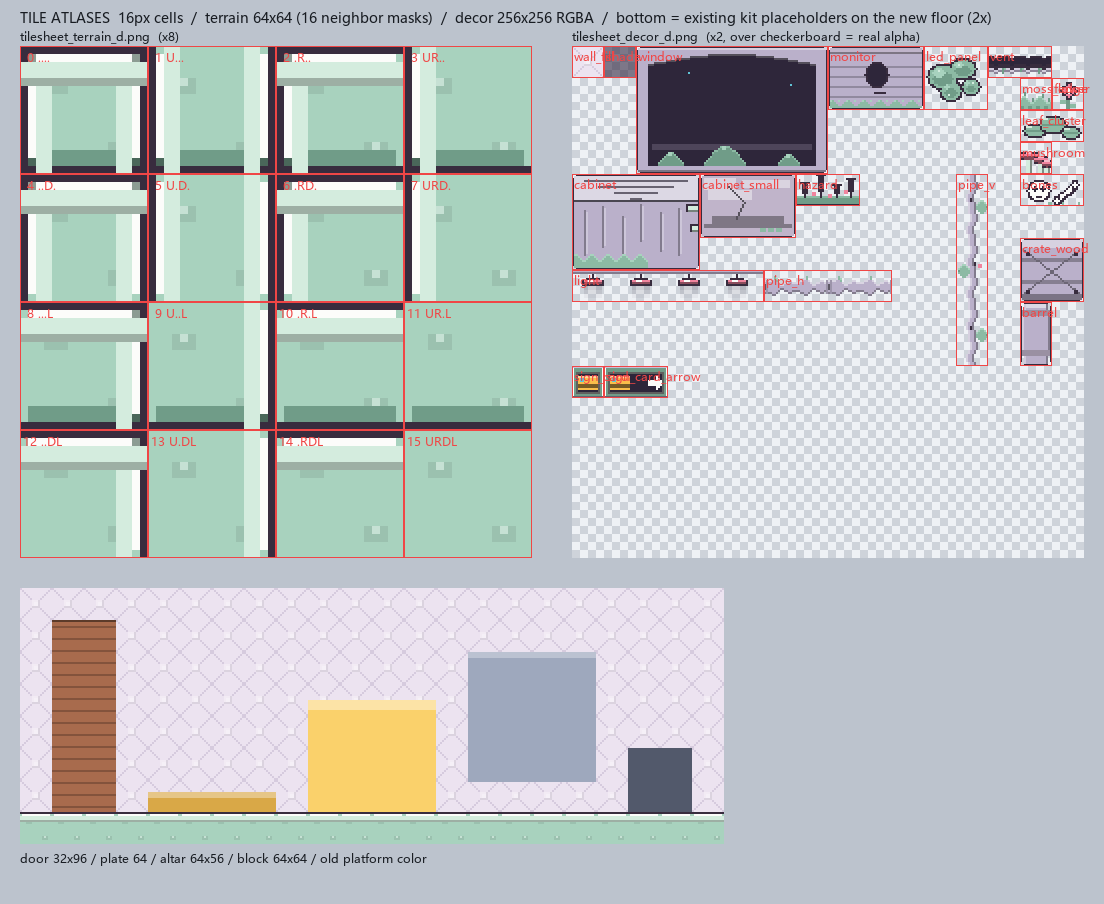
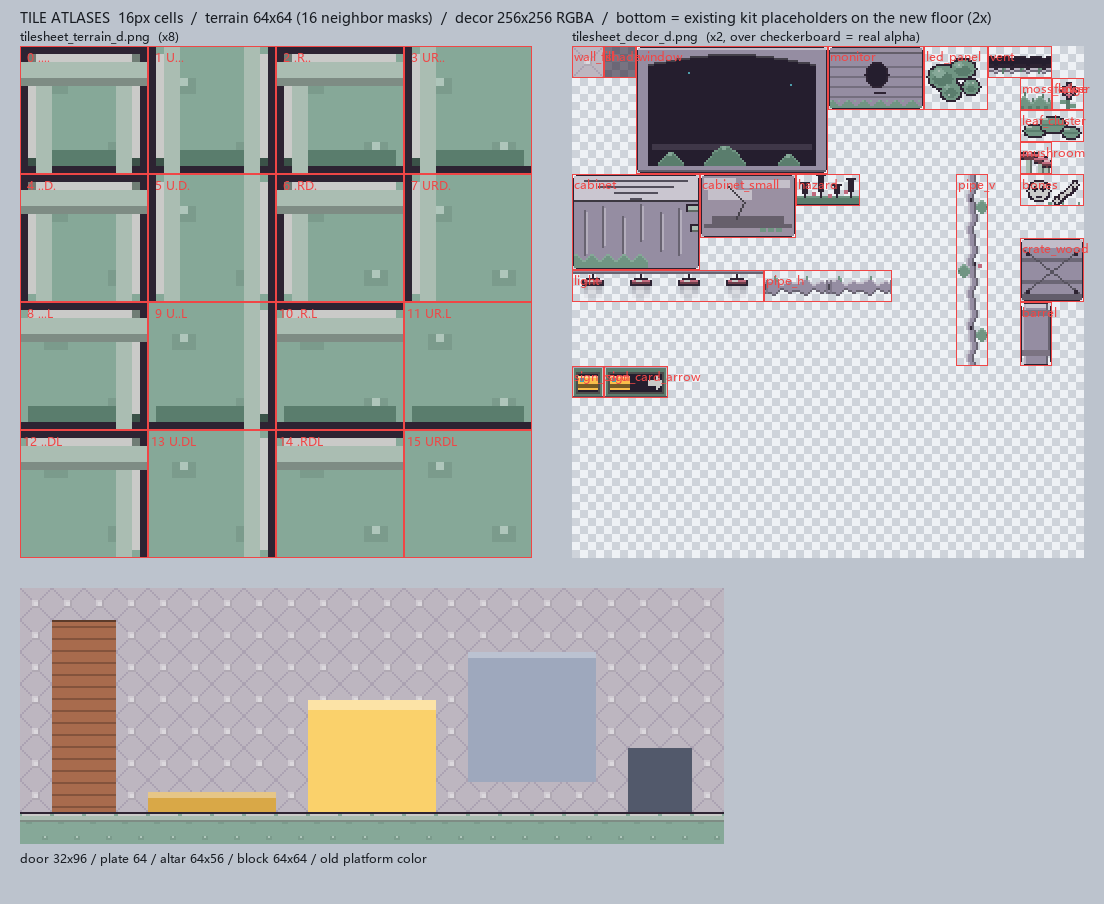
[tune] D72 第二关（d 亮底）整条降亮到 ×0.80：冻结那层 CRT 不再把画面削成纯白
症状是"移动加上 shader 更亮"，量出来是削顶不是变亮：freeze_crt 的 linear_fac 1.3 是等比乘再夹 255，
同一道算式 g 只有 7.9% 像素撞天花板、d 有 45.7%（墙 236,227,240 → 255,255,255，色相与细节一起没）。
用户否掉"每关一个冻结增益旋钮"，理由是他之后每一关都基于同一个场景拓展、没有选关 —— 按关分叉的修法
在这个结构里没有住的地方。落的是 STYLES["d"] 那 15 个颜色键（墙 79.1→48.1、均值 205.5→165.3、削顶 45.7%→3.0%）。

pickup 是唯一不跟着缩的键：它跟 key_card.png 那张实物零件同色才说得出「这张开这扇」，缩它等于让
告示牌指一张不存在的卡（D70 第 4 条）。选型图 tools/gen_d_dim_preview.py 走两条同源函数
（房间 = 落盘画师 render_room，冻结 = 出货 fragment 的离线复现 crt），五行两格，他看图挑的 B 档。

要说清的一条代价：降亮没有治好"构件在 d 墙上读不出来"，方向甚至相反（同一批真色只换墙：
琥珀 1.34→1.18、青 1.62→1.02、LED 底座 13.51→8.53）—— 墙退到构件亮度中间，两侧距离一起变小。
那笔账仍欠在 D67 裁定③「重开构件色」。

没动 shader，也没跑 build_tileset.gd（图集矩形与源索引不变 ⇒ 手维护的 level_02_tileset.tres 自己跟着变暗）。
g 侧可核零变化；四条守门 677/0、verify failures=1（仍是 level1 的 Objects 位移）、kit 0、sprite 0。

diff --git a/tools/gen_d_dim_preview.py b/tools/gen_d_dim_preview.py
@@ -1,0 +1,150 @@
+#!/usr/bin/env python
+# -*- coding: utf-8 -*-
+"""
+第二关（d 亮底）太亮 / 冻结那一拍更亮 —— 降亮档选型图。
+
+两条同源口径（D58 立的规矩：选型图必须由落盘那个渲染函数直接生成）：
+  房间 = tools/gen_tiles.py 的 render_room()，换的只是 STYLES["d"] 调色板里的数值；
+  冻结那一拍 = tools/gen_freeze_filter_preview.py 的 crt()，就是出货那段 fragment 的离线复现
+              （linear_fac 1.3 / scan_fac 0.10 / 色散开），所以图里的"更亮"和游戏里是同一道算式。
+
+每档出两格：左 = 静止（世界流动），右 = 冻结（按住方向键那一拍）。
+控制台读数值用 ASCII（cp936 会把中文列名糊掉），图上的标注才用中文。
+
+用法：  py tools/gen_d_dim_preview.py
+产物：  assets/tiles/preview_d_dim.png
+"""
+import os
+import sys
+
+from PIL import Image, ImageDraw
+
+sys.path.insert(0, os.path.dirname(os.path.abspath(__file__)))
+import gen_tiles as G                     # 落盘的画师
+import gen_freeze_filter_preview as F     # 出货 shader 的同一条算式
+
+ROOT = os.path.dirname(os.path.dirname(os.path.abspath(__file__)))
+OUT = os.path.join(ROOT, "assets", "tiles", "preview_d_dim.png")
+
+# 增益 1.3 的削顶线：任何通道 >= 255/1.3 = 196.2 都会撞天花板。
+CLIP_LINE = 255 / 1.3
+
+FACTORS = (
+    (1.00, "现况 d"),
+    (0.90, "A ×0.90"),
+    (0.80, "B ×0.80"),
+    (0.72, "C ×0.72"),
+    (0.64, "D ×0.64"),
+)
+
+CELL_W, CELL_H = 640, 360
+LABEL_W = 470
+ROW_H = CELL_H + 96
+
+
+PIN_KEYS = ("pickup",)     # 可拾取琥珀不跟着本套缩：`key_card.png` 是照落盘那套烤的实物零件，
+                           # 告示牌上那只卡全靠与它同色才说得出「这张开这扇」（D70 第 4 条）。
+
+
+def scale_palette(p, f):
+    """整条调色板按同一个系数缩（含 alpha 的那些只缩 RGB）。
+    同系数 = 每一对颜色之间的相对关系一起缩，所以不会在缩的过程中改坏对比结构。
+    PIN_KEYS 里的那几个例外 —— 它们跟着别的实例走，不是本套的风格量。"""
+    out = {}
+    for k, v in p.items():
+        if k in PIN_KEYS or not isinstance(v, tuple) or len(v) < 3 \
+                or not all(isinstance(x, (int, float)) for x in v):
+            out[k] = v
+            continue
+        rgb = tuple(G._c(x * f) for x in v[:3])
+        out[k] = rgb if len(v) == 3 else rgb + (v[3],)
+    return out
+
+
+def room_pair(p):
+    """同一间房的静止帧与冻结帧，都回到窗口的 1280x720（NEAREST 放大，别糊晶格）。"""
+    img = G.render_room(p, ROOT).convert("RGB").resize((F.W, F.H), Image.NEAREST)
+    return img, F.crt(img, linear_fac=1.3, scan_fac=0.10)
+
+
+def readings(img):
+    n = 0
+    s = 0.0
+    clip = 0
+    for y in range(0, img.height, 3):
+        for x in range(0, img.width, 3):
+            r, g, b = img.getpixel((x, y))[:3]
+            s += 0.2126 * r + 0.7152 * g + 0.0722 * b
+            if r >= 255 or g >= 255 or b >= 255:
+                clip += 1
+            n += 1
+    return s / n, 100.0 * clip / n
+
+
+def palette_ceiling(p):
+    return max(max(v[:3]) for k, v in p.items() if k not in PIN_KEYS
+               and isinstance(v, tuple) and len(v) >= 3 and all(isinstance(x, (int, float)) for x in v))
+
+
+def main():
+    base = G.STYLES["d"]
+    body = (10, 12, 12)                      # 主角那团黑，与 contrast_report 同一个抄法
+    rows = []
+    print("factor  label     mean_stat mean_freeze  clip_freeze%  ceiling  keys_over_clip  "
+          "wall  p/wall o/wall metal/wall glass/wall lip/wall")
+    for f, label in FACTORS:
+        p = scale_palette(base, f)
+        stat, frozen = room_pair(p)
+        ms, _ = readings(stat)
+        mf, cf = readings(frozen)
+        over = sum(1 for k, v in p.items() if k not in PIN_KEYS
+                   and isinstance(v, tuple) and len(v) >= 3
+                   and all(isinstance(x, (int, float)) for x in v) and max(v[:3]) >= CLIP_LINE)
+        r = dict(ms=ms, mf=mf, cf=cf, ceil=palette_ceiling(p), over=over,
+                 wall=G._rlum(p["bg"]) * 100, pwall=G._cr(body, p["bg"]),
+                 owall=G._cr(p["edge"], p["bg"]), metal=G._cr(p["metal"], p["bg"]),
+                 glass=G._cr(p["glass"], p["bg"]), lip=G._cr(p["lip"], p["bg"]))
+        rows.append((f, label, stat, frozen, r))
+        print("%5.2f  %-9s %8.1f %10.1f %13.1f %9d %14d  %6.1f %6.2f %6.2f %10.2f %9.2f %8.2f" % (
+            f, label, r["ms"], r["mf"], r["cf"], r["ceil"], r["over"],
+            r["wall"], r["pwall"], r["owall"], r["metal"], r["glass"], r["lip"]))
+
+    W = LABEL_W + 2 * CELL_W + 40
+    H = ROW_H * len(rows) + 120
+    sheet = Image.new("RGB", (W, H), (12, 12, 16))
+    d = ImageDraw.Draw(sheet)
+    title = G._font(30)
+    f1 = G._font(24)
+    f2 = G._font(18)
+    d.text((20, 24), "第二关（d 亮底）降亮档选型 · 右格 = 冻结那一拍，用出货同一条算式（linear_fac 1.3 / scan 0.10 / 色散）",
+           font=title, fill=(232, 236, 248))
+    d.text((20, 62), "削顶线 = 255/1.3 = 196：调色板里任何通道过线，那一格在冻结时都会糊成纯白（失去色相与细节）· 全部读数由这两条同源函数当场量出",
+           font=f2, fill=(178, 186, 206))
+
+    y0 = 120
+    for i, (f, label, stat, frozen, r) in enumerate(rows):
+        d.rectangle([0, y0 - 8, W - 1, y0 + ROW_H - 10], outline=(52, 58, 76))
+        d.text((20, y0 + 6), label, font=f1, fill=(236, 240, 252))
+        d.text((20, y0 + 38), "静止均值 %.1f → 冻结 %.1f（+%.1f）" % (r["ms"], r["mf"], r["mf"] - r["ms"]),
+               font=f2, fill=(186, 196, 220))
+        d.text((20, y0 + 62), "冻结削顶 %.1f%% · 最高通道 %d · 过削顶线的键 %d 个"
+               % (r["cf"], r["ceil"], r["over"]), font=f2, fill=(150, 196, 236))
+        d.text((20, y0 + 84), "轮廓/墙 %.2f · 金属/墙 %.2f · 玻璃/墙 %.2f · 亮边/墙 %.2f · 主角/墙 %.2f"
+               % (r["owall"], r["metal"], r["glass"], r["lip"], r["pwall"]),
+               font=f2, fill=(228, 196, 120))
+        d.text((20, y0 + 106), "墙相对亮度 %.1f（g 那套是 9.1）" % r["wall"], font=f2, fill=(150, 214, 176))
+        for j, img in enumerate((stat, frozen)):
+            cell = img.resize((CELL_W, CELL_H), Image.BOX)
+            x = LABEL_W + 10 + j * (CELL_W + 20)
+            sheet.paste(cell, (x, y0))
+            d.rectangle([x, y0, x + CELL_W, y0 + CELL_H], outline=(70, 78, 100))
+            d.text((x + 10, y0 + 6), "静止（世界流动）" if j == 0 else "冻结（按住方向键那一拍）",
+                   font=f2, fill=(240, 244, 255))
+        y0 += ROW_H
+
+    sheet.save(OUT)
+    print("\nsaved", OUT, sheet.size)
+
+
+if __name__ == "__main__":
+    main()

diff --git a/tools/gen_tiles.py b/tools/gen_tiles.py
@@ -112,13 +112,17 @@ STYLES = {
         motif_bg="quilt", motif_terrain="dot", soft=True,
         # decor_set / pickup 是 D70 那两条：装饰从「实验室词汇」换成「树丛词汇」
         # （几何与占格一格不动，只换 painters 表），并把可拾取琥珀从 accent2 里单拎出来跟着卡走。
+        # D72 整条 ×0.80（他挑的 B 档）：这套原样均值 205，冻结那层 CRT 的 linear_fac 1.3 一乘，
+        # 45.7% 的像素至少一个通道撞天花板 —— 亮底不是暗底取反，它没有余量给"加辉"。
+        # 唯一不动的是 pickup：它跟着 key_card.png 那张实物零件走（同色才说得出「这张开这扇」），
+        # 换风格不能把语义一起换掉（D70 第 4 条同一个道理）。
         decor_set="grove", pickup=PICKUP_AMBER,
-        bg=(236, 227, 240), bg2=(214, 203, 222), bg3=(192, 180, 202),
-        surface=(168, 210, 190), grout=(140, 186, 164), deep=(112, 156, 136),
-        lip=(252, 252, 250), lip_shade=(212, 236, 222), edge=(56, 44, 62),
-        accent=(96, 196, 214), accent2=(240, 132, 158),
-        glass=(210, 238, 244), metal=(186, 176, 202), screen=(46, 38, 58),
-        pit_shade=(46, 34, 60, 150),
+        bg=(189, 182, 192), bg2=(171, 162, 178), bg3=(154, 144, 162),
+        surface=(134, 168, 152), grout=(112, 149, 131), deep=(90, 125, 109),
+        lip=(202, 202, 200), lip_shade=(170, 189, 178), edge=(45, 35, 50),
+        accent=(77, 157, 171), accent2=(192, 106, 126),
+        glass=(168, 190, 195), metal=(149, 141, 162), screen=(37, 30, 46),
+        pit_shade=(37, 27, 48, 150),
     ),
     "e": dict(
         label="E  TOY PLAYROOM  (round subway wall + honey wood floor, brown outline)",

diff --git a/docs/context_brief.md b/docs/context_brief.md
@@ -20,8 +20,8 @@
 ## 2. 工程布局
 
 - 根目录 `D:\Godot\Ups\upstream`。**是 git 仓库**（分支 `main`，**没有配置远端**）——本地提交能回滚，但没有第二份副本，删除/覆盖仍不可恢复，操作要保守。
-- `scenes/actors/player/` 玩家（**D68 起身上多一根 `time_anchor.gd` 的 `TimeAnchor`**，代码建的子节点、不进 `player.tscn`）；`scenes/objects/` 下是门（door）、按钮（button_plate）、钟摆（pendulum）、移动方块（moving_block，D68 起进 `anchorable` 组）、祭坛（ability_altar）、感应区（sensor_zone）、尖刺（spikes）、电棒（electric_bar）、能量卡（key_pickup）、刷卡门（key_door）、存档点（checkpoint）、残影踏板（afterimage_emitter）、活塞踏板（piston_block）、坠落带（fall_zone）、彩蛋收集物（collectible）、世界钟（clock，纯装饰、零契约）、**相位面板（phase_panel）与相位穿梭块（phase_shuttle，D69 起进 `anchorable` 组）**；`components/` 是跨构件小基类（time_receiver / hazard_base / tile_draw / **clock_device（D69：相位器件的共同地基）**）；`autoloads/time_manager.gd` 时间系统；`tools/` 生成脚本与四个回归守门；`assets/player/slime/` 程序生成的像素帧；`assets/tiles/` 瓦片，**D67 起有两套落盘配色**：`lab_tileset.tres`（`g` 暗底夜光，现有关与模板都指它）与 `lab_tileset_d.tres`（`d` 糖果贴纸，给换美术风格的新关，三层 `tile_set` 一起指过去）；**外加第三份 `level_02_tileset.tres`（2026-10-27 起，第二关专用：手维护、不属于瓦片管线、`build_tileset.gd` 不认它 —— 四个源 = g 的地形与装饰 + d 的两张图集，`sources/2..3` 的物理层由关卡作者自己画；代价是没有任何守门替它验碰撞，画漏一格 = 砖没碰撞而无头照样全绿）**。**地形那 16 格两套逐格同源；装饰两套不再相同（D70）**：`d` 换成了「树丛」词汇表（`decor_set="grove"`，同名换剪影十件 + 多七件，占格与条目名一格没动），所以 **g→d 整层复制合法、d→g 会掉那七块皮**，`tileset_selftest` 钉着这条方向。
-- 文档：`docs/architecture_chapter_01.md` 记着 **D1~D71 全部设计决策**（开工前先读，尤其是末尾的补录；D33 是留空号，下一个空号 D72）；`docs/level_authoring_guide.md` 是摆图手册；`docs/m2_level_01_layout.md` 是引导关白模说明。
+- `scenes/actors/player/` 玩家（**D68 起身上多一根 `time_anchor.gd` 的 `TimeAnchor`**，代码建的子节点、不进 `player.tscn`）；`scenes/objects/` 下是门（door）、按钮（button_plate）、钟摆（pendulum）、移动方块（moving_block，D68 起进 `anchorable` 组）、祭坛（ability_altar）、感应区（sensor_zone）、尖刺（spikes）、电棒（electric_bar）、能量卡（key_pickup）、刷卡门（key_door）、存档点（checkpoint）、残影踏板（afterimage_emitter）、活塞踏板（piston_block）、坠落带（fall_zone）、彩蛋收集物（collectible）、世界钟（clock，纯装饰、零契约）、**相位面板（phase_panel）与相位穿梭块（phase_shuttle，D69 起进 `anchorable` 组）**；`components/` 是跨构件小基类（time_receiver / hazard_base / tile_draw / **clock_device（D69：相位器件的共同地基）**）；`autoloads/time_manager.gd` 时间系统；`tools/` 生成脚本与四个回归守门；`assets/player/slime/` 程序生成的像素帧；`assets/tiles/` 瓦片，**D67 起有两套落盘配色**：`lab_tileset.tres`（`g` 暗底夜光，现有关与模板都指它）与 `lab_tileset_d.tres`（`d` 糖果贴纸，给换美术风格的新关，三层 `tile_set` 一起指过去）；**外加第三份 `level_02_tileset.tres`（2026-10-27 起，第二关专用：手维护、不属于瓦片管线、`build_tileset.gd` 不认它 —— 四个源 = g 的地形与装饰 + d 的两张图集，`sources/2..3` 的物理层由关卡作者自己画；代价是没有任何守门替它验碰撞，画漏一格 = 砖没碰撞而无头照样全绿）**。**地形那 16 格两套逐格同源；装饰两套不再相同（D70）；`d` 那一套自 D72 起整条 ×0.80（亮底没有余量给冻结那层 CRT 的 1.3 倍增益，只有 `pickup` 不跟着缩）**：`d` 换成了「树丛」词汇表（`decor_set="grove"`，同名换剪影十件 + 多七件，占格与条目名一格没动），所以 **g→d 整层复制合法、d→g 会掉那七块皮**，`tileset_selftest` 钉着这条方向。
+- 文档：`docs/architecture_chapter_01.md` 记着 **D1~D72 全部设计决策**（开工前先读，尤其是末尾的补录；D33 是留空号，下一个空号 D72）；`docs/level_authoring_guide.md` 是摆图手册；`docs/m2_level_01_layout.md` 是引导关白模说明。
 
 ## 3. 时间系统怎么实现
 
@@ -92,6 +92,7 @@
 - **D69 相位器件：平时受世界钟、被锚吸住时反过来跟手（2026-10-26/27，已实装、四条守门绿）**：用户提「接下来我们需要一些可以被附着并改变实际状态的物体」。**我的第一版被当场否掉**：那版把新物件写成"只有被锚着时才动"（给 `TimeReceiver` 加一道"有没有被接管"的休眠闸），用户原话「这些物体在平时也应该受到世界钟的调控，只不过在被锚点附着时会反过来调控，而不是完全独立于其他物体」——**那道休眠闸一行都没写**，整条设计改成"默认世界钟、被锚时换源"，正好复用 D68 已经铺好的路（锚只换 `TimeReceiver` 的时间源，器件不知道自己被谁喂时）。**四件东西**：`components/clock_device.gd`（周期器件共同地基，`_clock` 只按 `get_physics_delta()` 攒、`cycle_on() = fposmod(_clock+phase, period) < period*duty`，`period<=0` 恒开）+ `scenes/objects/phase_panel/`（中间 32×16 底座**永远实**、两侧 `panel_size` 桥面按相位现形）+ `scenes/objects/phase_shuttle/`（48×16 实心踏板在 A/B 两个停靠点之间**整块瞬移**，B = A + `offset`，不载人）+ 两件都进 `anchorable` 族、层 4 / mask 0、挂 `TimeReceiver`。**六行行为矩阵**（这条决定的核心）：未吸附+流动→自己开合；未吸附+冻结→停住；吸附+人站着（世界流着）→停住；吸附+人按着方向（世界冻着）→照着走；移动中 E 回收→目标当帧回世界钟（=0 delta）→停住；站着回收→回世界钟继续走、**相位不回到 0**。**三条裁定**：D1 底座常实（桥面虚时人不会踩空，`PhasePanel` 只切 `PanelShape.disabled`）；D2 变实/换位前问一次物理世界（`PROBE_INSET = 1 px` + `CLEAR_MASK = 2|4`，玩家或别的 time_solid 占着就停在旧状态、报 `blocked`，让开那一帧接着变；**不含地形层** —— 摆歪进墙是摆图错误，不该让器件永远变不实）；D3 穿梭块不是电梯（整块瞬移、没有中间位置、不带着人走）。**两条非显然**：子类一律 `extends "res://components/clock_device.gd"` 走路径（headless 的 `global_script_class_cache.cfg` 不可靠）；形状资源必须第一次用时 `duplicate()` 成自己独占的那份（`.tscn` 的 sub_resource 同场景多实例共用，D21 那个坑）。**摇表成本**：`period 2.0 / duty 0.5` 最坏 1.0 s，260 px/s × 1.0 s = 260 px < 320 px 射程 —— 玩家按着键把锚吸上去，够得着它走满一整个窗口。**守门**：`verify_kit` 静态钉（`ClockDevice`/两件子类共六类源码形状，禁 `_process(`、禁读 `elapsed_world_time`/`TimeManager.get_*delta`/`Engine.time_scale`/`run_state`，必须走 `_receiver.get_physics_delta()`、必须带占位查询）+ 运行期实测（底座 32×16 常开、桥面顶边与底座齐、相位采样 0.5/1.5/2.5 s 三档、改 `panel_size` 只影响自己那份、穿梭块 B 点与 `offset`、改 `step_size` 不波及同场景另一件）；`anchorables` 族扫描下限从 1 提到 **3** 并逐件点名（移动方块 + 两件新的）。`kit_selftest` 第 23 组 **50 钉**（真 `player.tscn` + 真实 Input，把六行矩阵逐行跑）。两条破坏性对照证明新钉子会响（删喂时那条、撤 `anchorable` 组）：分别 8 条 kit FAIL + 2 条 verify FAIL（`failures=3`）与恰好 3 条 FAIL，复原照绿。**留给人眼的三条**：① 面板"桥面虚着也能吸"（底座常实在射线里）在实机比例下读不读得出来；② 吸附中按方向键时"它在跟着我走"与"世界冻住"两件事同框，会不会读成 bug；③ 穿梭块整块瞬移在 CRT 下够不够"离散"（若不读，先动 `offset`/`step_size`，别改瞬移那条）。**参数留给关卡作者**：`period` / `duty` / `phase` 三件都可摆，手册 §5 与 §8a 有摆位与成本口径。
 - **D70 装饰按套分列词汇表：`d` 从实验室换成「树丛」，可拾取琥珀单拎成 `pickup`（2026-10-27，用户一句「按你推荐的做」整体放行；已实装、四条守门全绿）**：起因是他看 d 装集「第二套风格的配色更类似于森林一类的，但 decor 里依然是实验室风格的物体，不太协调」。**分析先塌缩成三个数**：d 里唯一有饱和度的色全在地形（三档鼠尾草绿）→ 森林感是配色给的、不是 `quilt` motif 给的；`metal` 对墙 **1.66**、`glass` 对墙 **1.03**、`edge` 对墙 **10.52** → **这套里装饰只剩轮廓这一条信道**，而轮廓 100% 是直角钢箱（g 相反，靠发光填充读）；唯一还读得出来的三件恰好都吃 `screen` 近黑 11.56 → "能看见的"恰好是最像机件的。**四条裁定**：① 走**温室/废弃园区**不走纯森林（在册构件全是机件，纯森林要重烤第二套构件皮 = D67 明码标价没花的那笔账，不许装饰层顺手花掉）；② **换词汇不换几何** —— `STYLES` 多一个 `decor_set` 参数（`PAINTERS` / `PAINTERS_GROVE`），条目名与占格一格不动，g 走原路；③ **一个新色都不加**，只用这套在册 12 键；④ `sign_plate` 那只卡的颜色改读 **`pickup`**（缺省回落 `accent2`，所以 g 逐字节不变）—— d 的 `accent2` 是粉，跟着本套走这块牌就在指一张场上不存在的粉卡（牌与卡 cr 1.47）。**换的十件**（同名换剪影，占格不变）：横根 / 垂藤 / 石拱洞口 / 吊光盖菌 / 木巢箱 / 贴壁地衣 / 墙缝 / 树桩 / 岩石 / 荆棘带；**新增七件**（摆在图集 x≥224 空列）：`moss_edge` `leaf_cluster` `mushroom` `flower` `bones` `crate_wood` `barrel`，d 的装饰 14 → **21** 块。**八条非显然里最该记的三条**：**图集矩形会撞车且不报错**（我按"x≥224 整列空着"摆新增件，忘了 `vent=(208,0,32,16)` 的右半正压在那一列第一行 —— 后画的盖掉前画的，图集里看是一块、清单里记两块，刷进关卡才现形），所以生成器落盘前跑 `check_decor_rects()`；**亮底与暗底是两套不同的可读性物理**（光晕无处可叠，`lip` 对白墙只有 1.22，所以"这里亮"改由形状+影来说，危险改由 `edge` 的实心尖说而不是由条纹说）；**`moss_edge` 画在格子的下半截**（Decor 在地形后面，"草长在台面上"要往台面上方那一格刷，整格填满会读成悬空的砖）。**守门**：`check_decor_rects()`（把 `moss_edge` 挪回 `(224,0)` 当场 FAIL）+ `tileset_selftest` 新增 `_check_sets_share_rects()`（**落盘那套的条目必须在每一套里都有、共有条目矩形逐格相同；方向是单向的** —— 两套条目数相等时这条顺带成立，D70 让两套第一次不对称，它第一次可被破坏而没人报错，所以现在才钉；手改 `tiles_d.json` 把 `monitor` 挪一格 → `[g/d] 共有条目 monitor 的矩形两套必须相同` 当场响）。四条无头守门：`TILESET SELFTEST DONE failures=0 checks=677`（634→677）/ `VERIFY DONE doors=3 pistons=5 fallzones=1 anchorables=3 failures=1`（唯一 FAIL 仍是用户 WIP `level1.tscn` 的 `Objects` 容器位移，不代修；`anchorables` 从 1 涨到 3 是 D69 那两件相位器件进族）/ `[kit-selftest] done failures=0` / `SPRITE SELFTEST DONE failures=0`。**g 侧可核零变化**：`git diff` 对 `lab_tileset.tres` / `tiles.json` / 两张 `tilesheet_*.png` / `preview_tiles.png` 与其余八张 `preview_room_*.png` 全空。**要说清的一条**：会话开始时 `lab_tileset.tres` 上带着一份**未提交**的异常改动（往 g 的资源里塞 `sources/3`/`sources/4` 挂 d 的图集 = D67 警告的"新的挂着旧的"那个形状），`build_tileset.gd` 重建把它覆盖回了 HEAD。**订正（同日，用户说明意图后）**：那份不是异常，是他在给第二关做混合图集并自己画物理层；我当时按形状认成了事故、还建议撤掉，是他问了一句才拦下来。这份内容现在活在 `assets/tiles/level_02_tileset.tres`（见 §2 与手册 §12），产物文件该由生成器独占这条不变。**留给人眼的一条**：树丛这套皮只在生成器的合成预览里看过（`preview_room_d.png` / `preview_tiles_d.png`），**真窗口 + 那层 CRT 之下"苔带读不读得出草口、荆棘读不读得出危险、巢箱会不会被当成第二台终端"三条都没验**；想换档（更密/更疏、纯森林、或把某件换回机件）都只动 `PAINTERS_GROVE` 里那一个函数，几何与清单不用碰。
 - **D71 第二关的混合图集搬进独立手维护资源（2026-10-27，用户一句「把第二关的瓦片资源改成独立文件」）**：他在搭第二关，往 `lab_tileset.tres` 里加了 d 的两张图集当 `sources/2..3` 并**自己画了整格碰撞**；我按形状把它认成 D67 警告过的「新的挂着旧的」那个事故、还建议 `git restore` 撤掉（**没撤成，一次都没执行**）。搬法：**逐字节复制、只换第一行的资源 uid**（新 uid 让 Godot 自己 `ResourceUID.create_id()` 生成，别手搓 base36），**源索引 0..3 一字不动** —— 关卡 `tile_map_data` 存的是 `source_id`，重排源等于让已刷的砖集体换图集。产物口径不变：`lab_tileset.tres` / `lab_tileset_d.tres` 由 `build_tileset.gd` 独占重写，**要混合图集就另存一份自己的 `.tres`，并承认它不受管线保护**。由此得到一条**守门盲区**，说清楚比假装覆盖更值钱：`tileset_selftest` 那 677 条只验清单声明的 `sources/0..1`，`level_02_tileset.tres` 一格都不验 —— 手画碰撞漏一格不会红，只能靠眼睛与实机；以后要为第二关补钉子，正解是把它作为第三条 `SETS` 记录进生成器与清单，而不是给手维护文件加一套平行检查。**流程教训（比这条决定更该记住）**：对未提交的改动，"它长什么样"替代不了"他在做什么"；给 destructive 建议前先问一句意图。**还没结清**：`lab_tileset.tres` 上那份未提交的混合图集仍在工作区（撤它需要逐次授权），副本已安全落进新文件，所以随时可以先让第二关三层指过去、再 `git restore` 那份产物。
+- **D72 `d` 那一套整条降亮到 ×0.80（2026-10-27，他报「第二关太亮，移动加上 shader 更亮」后按图挑的 B 档）**：病灶不是"亮"是**削顶** —— `freeze_crt.gdshader` 的 `linear_fac = 1.3` 是等比乘再夹 255，同一道算式 g 只有 7.9% 像素撞天花板、d 有 **45.7%**（墙 236,227,240 → 255,255,255，色相与细节一起没）。**他否掉的是"每关一个冻结增益旋钮"这条路，理由要记：「我之后的每一关都会基于同一个场景拓展而不是使用那种直接选关的设计」** ⇒ 按关分叉的修法在这个结构里不成立，会把一条全局视觉规则拆成一堆关卡私有状态。落的是调色板：`STYLES["d"]` 15 个颜色键整条 ×0.80（墙相对亮度 79.1 → 48.1、画面均值 205.5 → 165.3、冻结削顶 45.7% → 3.0%），**唯一不跟着缩的是 `pickup`** —— 它跟 `key_card.png` 那张实物零件同色才说得出「这张开这扇」（D70 第 4 条第一次真的挡下一处"顺手一起缩"）。选型图 `tools/gen_d_dim_preview.py` → `assets/tiles/preview_d_dim.png`（五行两格，房间用落盘画师 `render_room()`、冻结用出货 fragment 的离线复现 `crt()`，同源）。**两条要说清的**：① 降亮**没有**顺手还掉 D67 那笔"构件在 d 墙上读不出来"的账，方向甚至相反（同一批真色对旧/新墙：琥珀 1.34→1.18、青 1.62→1.02、LED 底座 13.51→8.53 —— 墙退到构件亮度中间，两侧距离一起变小），真要解决得走"重开构件色"；② 这次**没动 shader、也没动 `.tres`**（图集矩形与源索引不变 ⇒ 不跑 `build_tileset.gd`，也就不会覆盖他那份 WIP；`level_02_tileset.tres` 引用同一批 PNG 路径，自己就跟着变暗）。g 侧 `git diff` 全空；四条守门 `TILESET failures=0 checks=677` / `VERIFY … failures=1`（仍是 `Objects` 位移）/ `kit 0` / `sprite 0`。**留给人眼**：真窗口 + CRT 之下 B 档还亮不亮、树丛轮廓在墙 48.1 上读不读得比现在清楚。**下一个空号 D73**。
 - **暂缓 · 死亡那一拍的重排（2026-09-29，四行候选已出图，他看完说「效果都不太好，暂时先不修改了」）**：D42 那版「等比收缩 + 14 滴爆裂」原样保留，`player.gd` / `death_burst.gd` 一字未动；候选图与生成器留在 `assets/player/preview_death_shatter.png`·`.gif` + `tools/gen_death_shatter_preview.py`，**要重开就从那张图接着挑**。出图时查出两条客观偏离（谁将来动这一拍都得先知道，详见 architecture 末尾那条「暂缓」）：① 实装比当年批的图多飘一条 `15×(1−s)`（缩的是 `Visual` 壳、原点在身体中心，等比缩放把底边一起收上来了）；② 那 14 滴里 5 滴是 2 px，被 `grow(-1.0)` 收成 0×0，**身体色一格都没画出来**，所以实机那蓬是白点（火星/气泡）而不是"崩出几块"。
 - **调试面板改为默认隐藏、按 T 开关（2026-09-29 用户裁定）**：理由是它常驻左上角会把摆图要看的格线全挡住。新输入动作 `dev_overlay`（physical T=84）住在 `project.godot`，开关逻辑住在 `debug_overlay.gd` 自己身上并打了 `DEBUG-KEY` 标记（打包删那一个函数就整条断开；刻意不并进 `main.gd` 的 `_unhandled_input`，那样常驻根就得认识这个节点），两条都只在 `OS.is_debug_build()` 下有效；`F11` 的 `dev_fps_cap` 照旧。**顺带按在册那条"断言不许抄第二份数"改掉一条守门**：`verify_kit` 原来把按钮带子钉成字面量 `64×24`，他自己把默认 `width` 拧到 48 就当场红 —— 现在钉的是 `width × sensor_height` 这条派生式（挡的是"改了导出项而带子没跟着重算"，实测派生跟得上）。
 - 待办：实机试玩验收 M5 危险物手感，以及 D42 那一拍（0.55 s 是长是短、收缩 + 爆裂读不读得出"死了"，都在 `death_time` 上一个数，用户可直接在检查器里试）；**D61 那一拍已验收（2026-09-27 用户：「验证完成，这个动画没问题了。」）**，只留一条长期约束：旋钮只有剪辑帧数，**`grant_time` 不许在检查器里单独拧** —— 它就是剪辑长度，拧了变成人落回地面而皮还在举；**D62 留给人眼的一条**：死一次回到**祭坛那一格**而**全场一台灯都不亮**，读起来像"这游戏记得我拿到了能力"还是像"存档点坏了"（要动只动 `_save_at_grant()` 一处；「只写重生位、不给灯」与「跳着撞进来不存」两条已拍，不用重开）；**D57/D58 苏醒那一拍还有一条没还的账**（他在编辑器里把 `wake` 手拧成 4.0 fps + 首帧停留 2.0 ⇒ 剪辑 3.00 s，而 `Player.WAKE_SECONDS` 仍是 **2.45 s**，所以最后两帧永远看不见；改常数还是把 fps 调回 5.0 归他定，守门钉的是"窗口会自己走完并把锁还回来"、不钉常数，所以这一条不会红）；**D45 只剩一条人眼验收**（已存态那三处轮廓差够不够"一眼看出存没存"）；**D46 那层 CRT 同理**（实机扫描线 + 色散好不好看、约 0.58 s 的淡入是快是慢，旋钮是 `TimeFreezeFilter.transition_speed`；当年那条"M3 全屏去饱和滤镜 + 玩家通道"的方案随 D46 一起作废 —— 现在压根不去饱和，而玩家就在这层滤镜底下，因为 layer 100 之上本来也没有别的可留，方向已定，别再提回炉）。音频（零 `AudioStreamPlayer`，全项目尚无任何声音）。**D47/D48 残影踏板已摆进 `level_1`**（摆位是用户的事，四条硬约束在手册 §5：喷嘴下方要净空、不许跨危险物杀区、离刷卡门 ≥ 1 格、别把必须落脚的那一格摆成冻结时的立足点）。留给人眼的两条：① **流动态那张皮**只看 `assets/props/preview_afterimage_flow.png` 的 F/G/H 三行（实装 = F，G 更虚、H 无线但脚落点最难读）；② **判死窗口已由他亲自拍过一格（2026-09-23）**：从 2 px 放到 **5 px 降难度**（脚要陷进可见踩面以下 5 px 才算被钉住），这条不再是待验收项；还要动就继续拧 `KILL_INSET` 这一个数（往 0 收变严、上限是 `step_size / 2`，`verify_kit` 钉着），但收之前先读 D48 里"整身盒子那条为什么被否"。另有一条**账要他自己拍**：脚本默认值现是 `800 × 0.40` ⇒ 节距 320，配 `reach 320` 时同屏只剩 2 格，正好压在 D47 那条"至少两格"的上限线上（净高 171 px 的房连 2 格都不够），且 800 px/s 不再满足"和玩家下坠同速 = 400"那条肉眼判据 —— 守门已解绑、不再管这两个数。**D49 活塞踏板已实装、尚未摆进关卡**（摆位与手感归用户，四条硬约束在手册 §5）。留给人眼的两条：① **那张皮只看实拍图 `assets/ui/frames/piston_skin_b.png`**（两行 = 竖直/水平，四列 = 收回 / 半路流动 / 半路钉住 / 满行程，全部是真引擎像素，不是生成器的模拟图）；② **要试的是速度配不配读法** —— 伸出 60 / 收回 240 这两个数撑不撑得起「站得住的时长 = 伸出长度 ÷ 240」这条账，以及"挤开"在实机下读不读得清是**人在让**而不是方块在顶人。**D63 再加一条**：反向档那句"踩下即抽干脚下的桥"读不读得清 —— 默认档 64 px ÷ 240 ≈ 0.27 s 就把人站着的那一格撤掉。这一档**不是新机制**（手册 §5 那条"站着不动的人会跟着落脚点一起被抽干"他早判过可接受），但它把这一发从"伸出那一下的副作用"升格成**常态那一头的默认拆除**：没人碰按钮时那儿就是一座桥，玩家会把它当地形站上去，而撤掉它的开关在另一头。开关就是检查器里 `rest_out` 一个勾，摆图时照编辑器**半透明实心**那一头认常态停哪儿；两条新的摆图硬约束（唯一通路软锁、别把落脚点摆在反向块常态伸出位）在手册 §8a。**D51 留给人眼的两条**：① **死一次回到存档点** —— 能力还在不在、祭坛是不是仍摆成已耗那副样子（这条在 D51 之前根本不成立，回灌那条读路径没人写；现在才第一次真的会兑现）；② **全关卡只有一台亮着读不读得通** —— 「亮 = 现在死会回到这儿」要不要多看一眼才懂，以及往回走几步踩上旧台把重生点搬回来，像白送的便利还是像 bug（"会搬回来"是用户已拍的裁定，人眼只验收它读不读得通，不用重新决策）。**D52 坠落带已实装、尚未摆进 `level_1`**（`width`/顶边线摆在哪归用户，两条硬约束在手册 §8a：盖过所有能走出去的边缘、顶边线在最低可立足地形下方至少一个跳峰，且不与终点带重叠）。留给人眼的一条：**摆好网之后从最外侧掉出去** —— 回到的是亮着那台而不是出生点（这条在 D52 之前根本不成立，那次误诊就是这么来的），以及**一条隐形的判死线读不读得出来**（网运行时不画，"我出去了"这件事全靠几何与那一拍死亡演出说；如果读不出，考虑用瓦片把世界底边收口，而不是给网开 `visible_in_game`）。**D53 留给人眼的一条**：**实机比例下那颗灯发红读不读得清是"这道门不认你"** —— 颜色是他从选型图挑的（G 行），但 0.09 s 的窗口与 4×4 世界像素在真帧上的观感守门测不到；两个旋钮都在检查器里（`denied_time` 填 0 就彻底不闪、改长就是常亮而不是提示），"同一次进入只闪一次"若要改成"站着不走就反复闪"得动 `_denied_armed` 那条闩锁。**D54 彩蛋收集物已实装、尚未摆进关卡**（藏在哪个隐藏房间、房间怎么造都归用户，构件零接线、一张场景选皮）。留给人眼的两条：① **转台在实机比例下读不读得出"它在转"** —— 档位是他从 `assets/props/preview_duck_spin.png` 挑的（B 行），但一圈 3 s、最扁 0.707 这两笔账在 4×4 设备像素 + 那层 CRT 滤镜之下的观感守门测不到；快慢旋钮只有 `spin_period`（填 0 = 完全不转，退成静图）。② **飘起那一下读不读得出"拿走了"而不是"获得了什么"** —— 演出刻意避开祭坛那套语言，代价是它很短（0.5 s / 26 px），且这两个常量刻意**没做成导出项**（摆图的人对一次性的演出没有反馈可调）。**D55 留给人眼的一条**：实机比例下那张卡坐在一块 14×5 的暗钢座上，读不读得出"这是个能拿的东西"（选型图里座子对墙只有 1.0，全靠轮廓分两截说话）；如果他觉得两截不够，唯一旋钮是 `part_perch` 的宽度（B=16 / C=20 已画在图上，要新落两张零件），**不是**回去给它加转 —— 那是 D55 已经否掉的路线。**D59 世界钟已实装、尚未摆进关卡**（摆在哪、要不要摆都归用户；一条建议已写进手册 §5：祭坛**之前**摆一只，否则第一次"停"没有基线）。留给人眼的两条：① **实机比例 + 那层 CRT 之下，那一圈灰点里换格的那颗青读不读得出"它在走、是我让它停了"** —— 形状是他从 `assets/props/preview_clock.png` 的 D 行挑的，但**那张图在他裁定之后重出过一次**（原图每只钟背着一块不透明黑的 18×18 底盒，读数只差 0.08，出货的皮与重出后的图 0 差）；② 快慢只有 `period` 一个数（默认 8 s ⇒ 一格 0.67 s）。**D64 留给人眼的一条（2026-09-29 实装完待发）**：托举途中那发借力跳（实测 `vy = -487`）读不读得出"是我踩着它跳的"，以及头顶被顶住后"蹲一下再从他脚下走开"这一拍像自救还是像卡住 —— 两条都长在玩家身上，无头守门只钉得住"能跳 / 能走开"，观感归他实机。④ 那条"被托着算站着所以给起跳"是他亲自点的档，人眼只验收它读不读得通，不用重新决策。**D68 留给人眼的三条（2026-10-26 实装完待发）**：① Q 按住瞄准 / 松开发射在实机比例下读不读得出"我在瞄准"与"这一发能吸 / 不能吸"（准星亮暗两色 + 可锚物多一圈）；② 吸附后那条 12 格回执在 CRT 下读不读得出"它在跟着我动"（周期旋钮 `RECEIPT_PERIOD`）；③ E 强回收的手感与回程时长（`RETURN_SPEED` 与 0.08~0.30 s 夹取）够不够快，尤其"目标当帧回世界钟、锚还在飞"读不读得出因果。**一条验证边界必须说清**：四条无头守门不渲染 `_draw()`，瞄准线、准星、连线、回执的**观感一次都还没在真窗口里看过**，验过的只有状态、时间源数值与输入链。**选关 / 关卡链 / 终点演出已被明确裁掉，别再当缺口重提。**

diff --git a/docs/level_authoring_guide.md b/docs/level_authoring_guide.md
@@ -284,5 +284,6 @@ D:/Godot/Godot_v4.6.1-stable_mono_win64_console.exe --path D:/Godot/Ups/upstream
 - **给一关换配色（D67）**：复制模板 → 选中 `Terrain/WallFill`、`Terrain/Decor`、`Terrain/Tiles` → 三层的 `tile_set` 都指到 `res://assets/tiles/lab_tileset_d.tres`。三条要紧话：**① 三层必须指同一套** —— 混指会出现地基是夜光、地形是软糖，而守门只钉"模板那三层共用 `lab_tileset.tres`"，救不了你自己新关里的混指；**② 两套的瓦片索引逐格同源**（同一批 painters，只换调色板），所以从用 g 的关里**整层复制**已摆好的 `Tiles` / `WallFill` / `Decor` 过来照样对得上，一格坐标都不用改；**方向是单向的（D69 起）** —— d 的装饰比 g 多七件，把 **d 的 Decor 层复制进 g 的关**会掉那七块皮，`tileset_selftest` 现在钉"落盘那套的条目必须在每一套里都有、共有条目的矩形逐格相同"，红的就是这条；**③ 地形跟上了，构件还没跟上** —— 在册的青色系（祭坛核心、门光幕、LED 亮态）对 d 那面浅紫墙只有 **1.01~1.18**（对 g 墙是 5.05~6.04），深色门体反而从 1.39 涨到 4.29，主角从 2.63 涨到 15.70（那圈 g2 亮边在 d 上成了一条 1.09 的没用的淡边）。真要用 d 开一关，先裁一条「构件换色」的决定（要重烤 `gen_props.py` 那批 PNG、动 `props.json` 的别名、逐件验读法），否则玩家在那一关里看不出哪盏灯亮着。七个读数全在 D67。
 - **手维护的第三份瓦片资源：`assets/tiles/level_02_tileset.tres`（D71，2026-10-27 起第二关用）**。它装的是**四张图集**：`sources/0..1` = g 的地形与装饰（清单产物原样），`sources/2..3` = d 的两张图集（**关卡作者自己在 TileSet 面板里加的，并手画了物理层**）。要紧的三句话：**① 这份文件不属于瓦片管线，`build_tileset.gd` 不认它** —— 正因为如此它不会被覆盖，但也**没有任何守门替它验碰撞与 peering**，画漏一格就是刷出来的砖没有碰撞、而四条无头全绿；**② 反过来，`lab_tileset.tres` 与 `lab_tileset_d.tres` 是纯产物**，往它们里手加源 = 下一次跑 `gen_tiles.py → --import → build_tileset.gd` 时被静默抹掉（D70 当天已经抹过一次），所以"要一份混合图集"唯一站得住的做法是**另存一份自己的 `.tres`**，就是这一份；**③ 源索引就是存档** —— 关卡的 `tile_map_data` 里存的是 `source_id`，所以这份文件里的 0/1/2/3 顺序一旦变动，已刷的砖会集体换图集；要动先动三层 `tile_set` 的指向，不要重排源。第二关那三层（`WallFill` / `Decor` / `Tiles`）指这一份，别一半指它、一半指产物。
 - **`d` 那一套的装饰是「树丛」词汇（D70，`decor_set="grove"`）**：换风格那次留下的"装饰还是实验室件"这笔账这次还了，走的是**温室 / 废弃园区**那一档（机件构件一件没动，纯森林要先重开构件换色那条决定）。同名换剪影的十件：`pipe_h`=横卧的根、`pipe_v`=垂藤、`window`=石拱洞口、`light`=吊光盖菌、`monitor`=木巢箱、`led_panel`=贴壁地衣、`vent`=墙缝、`cabinet`=树桩、`cabinet_small`=岩石、`hazard`=荆棘带；多出来的七件：`moss_edge` / `leaf_cluster` / `mushroom` / `flower` / `bones` / `crate_wood` / `barrel`。**摆的时候三条只在这套里成立**：**① `moss_edge` 刷在台面上方那一格**（它是 Decor，在地形后面；画在那格的底部，所以"草长在台面上"要往上一格刷 —— 整格填满会读成一块悬空的砖）；**② `hazard` 现在是荆棘，它的动词是"从地里长出来"**，别再照 g 那版钉在墙上，离地一格就不像话了；**③ 亮底上光晕不承载信息**（`lip` 对白墙只有 1.22），所以那排吊灯说的是"这里有东西挂着"而不是"这里亮"，要读"亮"仍然得靠构件自己的青。
+- **`d` 那一套的亮度档（D72，整条 ×0.80）**：d 原样画面均值 205、墙相对亮度 79.1，而冻结那层 CRT 是等比乘 1.3 再夹 255 —— 亮底没有余量给它，**45.7% 的像素会撞天花板**（色相与细节一起没）。现在墙 48.1 / 均值 165.3 / 冻结削顶 3.0%。三条摆图口径：**① 要再调亮度只动 `STYLES["d"]` 那 15 个颜色键**（`tools/gen_d_dim_preview.py` 一跑就出五档对比图与读数，图与出货同源）；**② `pickup` 永远不跟着缩**（它跟 `key_card.png` 那张实物零件同色，是语义不是风格 —— 缩它等于让告示牌指一张不存在的卡）；**③ 亮度降了不等于构件读得清**：同一批真色对旧墙/新墙的对比是琥珀 1.34→1.18、青 1.62→1.02，**两侧距离一起变小**，真要让构件在亮底上读出来得走"重开构件色"那笔账（D67 裁定③）。
 - **两块无字告示牌（D56，`Decor` 层）**：`sign_card_arrow`（32×16 = 2×1 格，实心琥珀卡 + 亮白右箭头）说的是「往那边走，那里有一张卡」，`sign_card`（16×16 = 1 格，只有那只卡）说的是「这扇门要的是这个」。牌面上一个字都没有，两句全靠形状与颜色：琥珀自 D29 起专指可拾取，白只说方向 —— 所以白箭头不会被读成第二只卡，卡也不会被读成门楣那颗 LED。**那只卡的颜色走 `p["pickup"]`，不走本套的 `accent2`（D69）**：`key_card.png` 是照落盘那套的 `accent2` 烤的，牌要跟着风格一起换色就会指错东西（d 的 `accent2` 是粉，牌与卡 cr 只有 1.47）。三条要记：**① 它是装饰格，不是构件** —— 无碰撞、无导出项、不吃任何时钟（冻结与否都照原样立在那儿），摆哪一格纯看你要指哪；**② 和所有装饰一样刷在空格子里**，叠在实心地形格上会被地形盖掉（§12 上面那条坑同源）；**③ `Decor` 在 z=-20**，牌永远在那面墙上、主角身后，不会挡人。要**左向**箭头没有现成格：`TileMapLayer` 不能逐格翻转，得回 `tools/gen_tiles.py` 给 `SIGN_SIZE` / `sign_plate` 加一个 kind、`DECOR` 加一行，再跑下面那条管线。
 - 改图集的管线（一般用不到，改风格才碰）：`py tools/gen_tiles.py` → `--import` → `--script res://tools/build_tileset.gd` → `tileset_selftest`。**一次跑就把 `SHIPPED` + `EXTRA_SHIPPED` 每一套都重出**，`build_tileset.gd` 也一次出两份 `.tres`（一对清单一份产物，见 D67），不用改常量来改去。生成器落盘前先跑 `check_decor_rects()`（D69）：装饰矩形必须 16 对齐、不出界、**两两不重叠**、painters 与条目对得上 —— 摆重叠了不崩，只是后画的那件盖掉前一件，而清单里仍然记两块。预览图 `assets/tiles/preview_room_g.png` / `preview_room_d.png` 是从图集逐格拼的，和引擎同一条合成路径，所见即所得；`preview_tiles.png` / `preview_tiles_d.png` 是两套各自的图集放大图，底下那条带是**现有构件的占位色落在新地砖上**的兼容性对照（换风格要看的就是这一条，不是地形自己）。生成器每次跑还会打印一张九套风格的 WCAG 对比表（主角 silhouette 对墙低于 4.5 会标出来，D26 第 8 条）。
